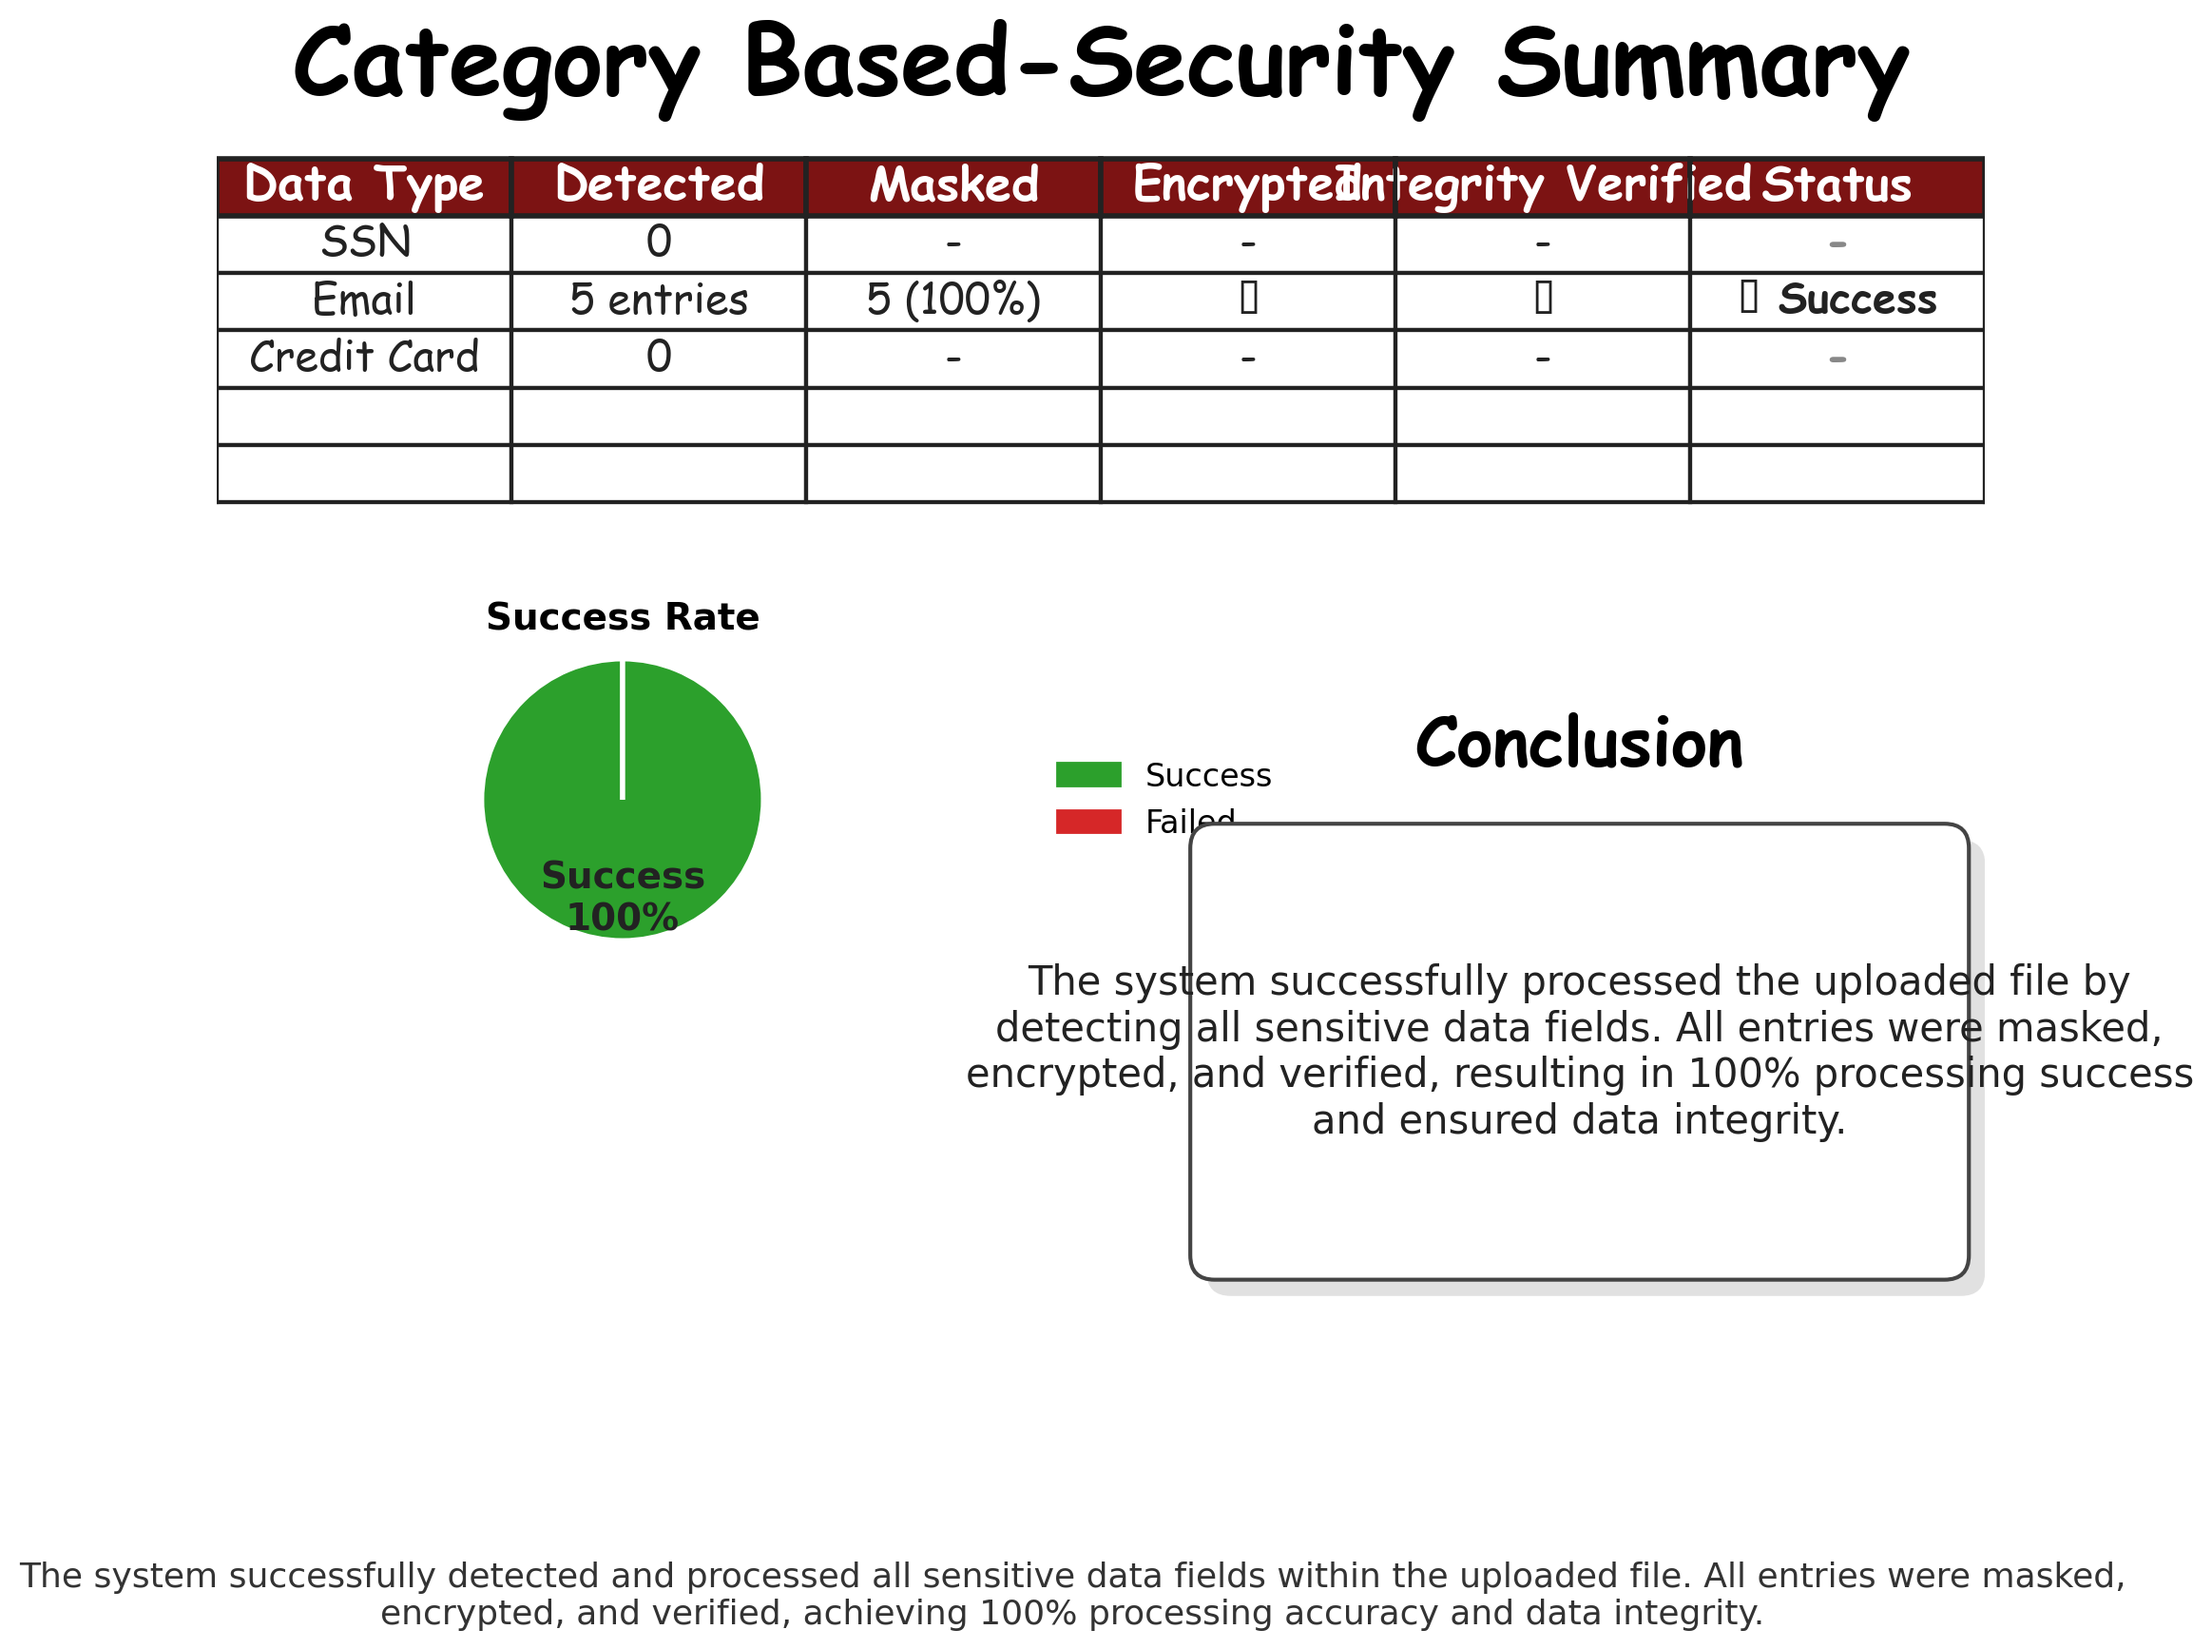
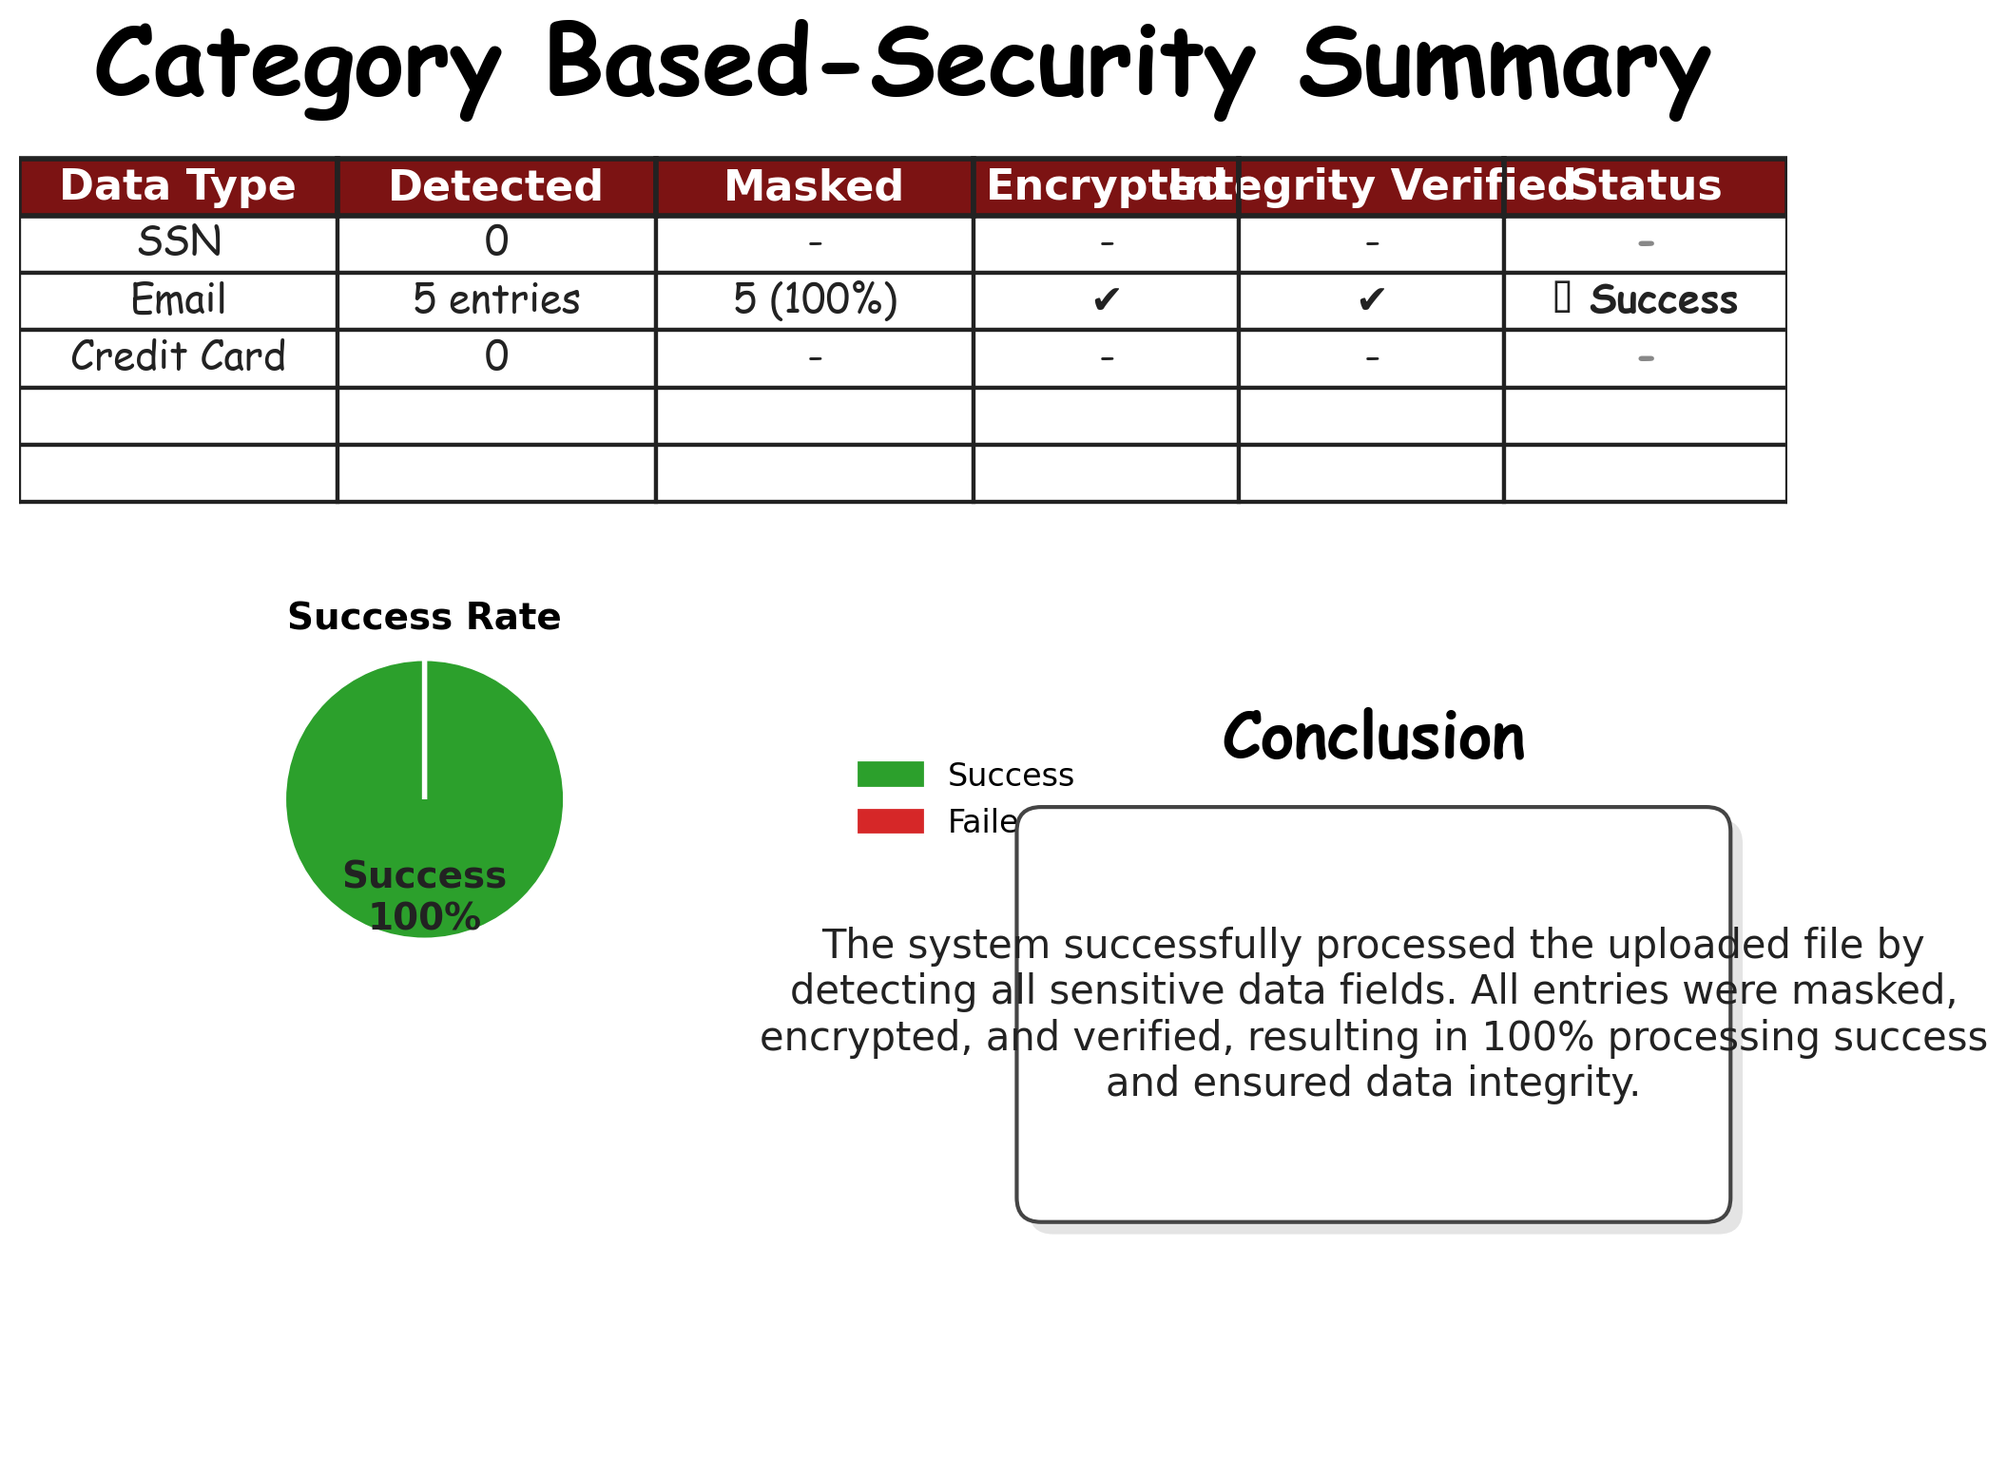
updated 2

diff --git a/src/reporting.py b/src/reporting.py
@@ -262,7 +262,9 @@ def generate_file_security_summary(
         conclusion_text = summary_str
     else:
         conclusion_text = "The system successfully processed the uploaded file by detecting all sensitive data fields. All entries were masked, encrypted, and verified, resulting in 100% processing success and ensured data integrity."
-    ax_conc.text(box_x + box_w/2, box_y+box_h/2, conclusion_text, ha='center', va='center', fontsize=15, color='#222', wrap=True, zorder=3)
+        ax_conc.text(box_x + box_w/2, box_y+box_h/2, conclusion_text, ha='center', va='center', fontsize=15, color='#222', wrap=True, zorder=3)
+        # Remove any bottom summary text (plt.figtext) if present
+        # (Do not add any plt.figtext or similar at the bottom)
     # Remove axes
     ax_conc.set_xlim(0, 1)
     ax_conc.set_ylim(0, 1)
@@ -295,8 +297,7 @@ def generate_file_security_summary(
         ax_pie.axis('equal')
         ax_pie.set_title("Success Rate", fontsize=14, fontweight='bold')
 
-    # Short text below (modern style)
-    fig.text(0.5, 0.01, short_text, ha='center', va='bottom', fontsize=13, color='#333', wrap=True, fontweight='medium')
+    # (Removed bottom summary text; only show in conclusion box)
 
     # Save image
     img_path = output_dir / f"{file_path.stem}_security_summary.png"
